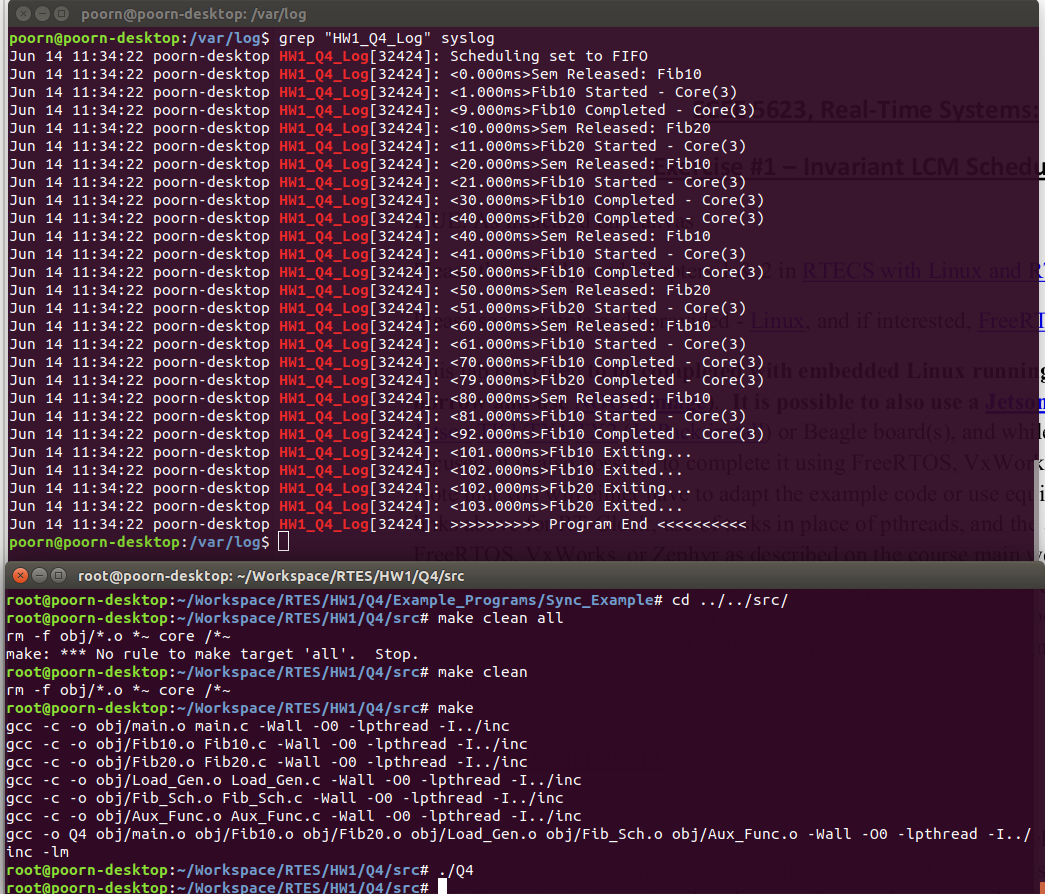
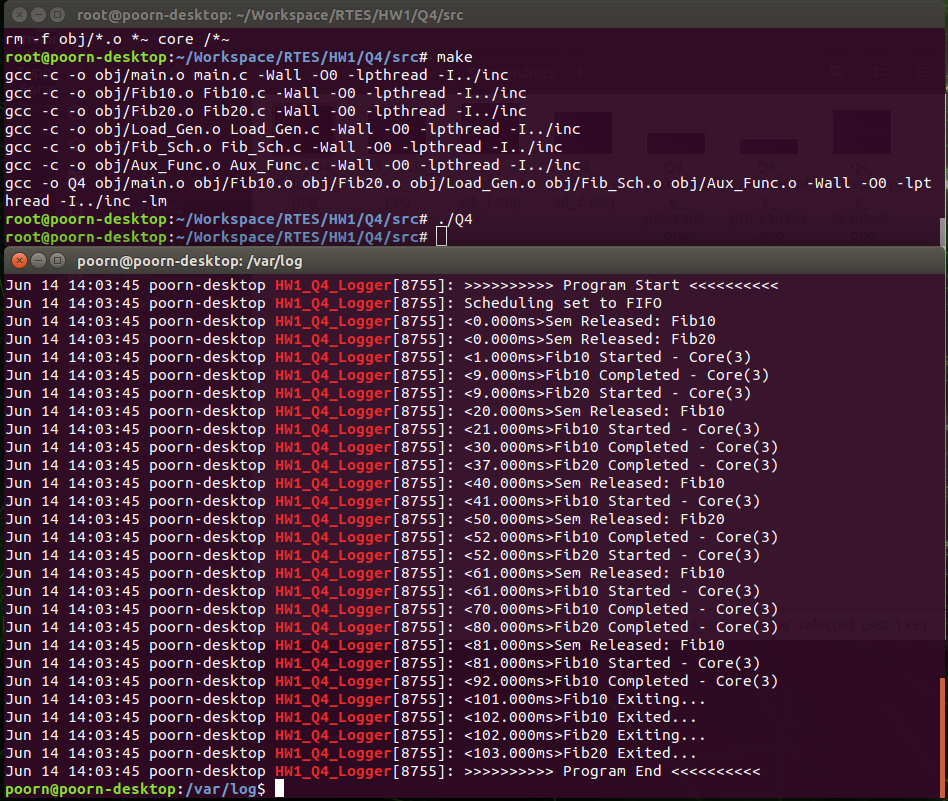
minor updates

diff --git a/HW1/Q4/src/Fib_Sch.c b/HW1/Q4/src/Fib_Sch.c
@@ -14,34 +14,41 @@ extern uint8_t Terminate_Flag;
 // Function to implement scheduling thread
 void *Fib_Scheduler(void *threadp)
 {
-	uint8_t i, j;
+	uint8_t j;
 	// How many LCM periods - to run for
 	for(j = 0; j < No_of_LCM; j ++)
 	{
 		// Implementing RM policy with the use of microsleep and semaphores
-		for(i = 0; i < 2; i ++)
-		{
-			// Run Thread Fib10
-			sem_post(&Fib10_Sem);
-			syslog (LOG_INFO, "<%.3fms>Sem Released: Fib10", Time_Stamp());
-			usleep(10000);
-
-			// Run Thread Fib20
-			sem_post(&Fib20_Sem);
-			syslog (LOG_INFO, "<%.3fms>Sem Released: Fib20", Time_Stamp());
-			usleep(10000);
-
-			// Interrupt Thread Fib20 
-			sem_post(&Fib10_Sem);
-			syslog (LOG_INFO, "<%.3fms>Sem Released: Fib10", Time_Stamp());
-			usleep(20000);
-		}
-
-		// Final Fib10 run
+		// Requestig both at the same time, Critical Instant
 		sem_post(&Fib10_Sem);
 		syslog (LOG_INFO, "<%.3fms>Sem Released: Fib10", Time_Stamp());
+		sem_post(&Fib20_Sem);
+		syslog (LOG_INFO, "<%.3fms>Sem Released: Fib20", Time_Stamp());
+		usleep(20000);
+		
+		// Period of Fib10 has arrived, request again
+		sem_post(&Fib10_Sem);
+		syslog (LOG_INFO, "<%.3fms>Sem Released: Fib10", Time_Stamp());
+		usleep(20000);
 
-		// Idle for last 10ms
+		// Fib20 has just completed processing. Period of Fib10 has reached, request again. 
+		sem_post(&Fib10_Sem);
+		syslog (LOG_INFO, "<%.3fms>Sem Released: Fib10", Time_Stamp());
+		usleep(10000);
+
+		// Period of Fib20 has arrived, request again
+		sem_post(&Fib20_Sem);
+		syslog (LOG_INFO, "<%.3fms>Sem Released: Fib20", Time_Stamp());
+		usleep(10000);
+
+		// Periodic request for Fib10
+		sem_post(&Fib10_Sem);
+		syslog (LOG_INFO, "<%.3fms>Sem Released: Fib10", Time_Stamp());
+		usleep(20000);
+
+		// Final request for Fib10. Fib20 has been completed 2 times now. 
+		sem_post(&Fib10_Sem);
+		syslog (LOG_INFO, "<%.3fms>Sem Released: Fib10", Time_Stamp());
 		usleep(20000);
 	}
 

diff --git a/HW1/Q4/src/main.c b/HW1/Q4/src/main.c
@@ -50,12 +50,14 @@ cpu_set_t CPU_Core;
 
 
 int main (int argc, char *argv[])
-{
+{	
 	// Record program start time, to provide relative time throughout the execution
 	clock_gettime(CLOCK_REALTIME, &start_time);
 
 	// Setup logger
-	Set_Logger("HW1_Q4_Log", LOG_DEBUG);
+	Set_Logger("HW1_Q4_Logger", LOG_DEBUG);
+
+	syslog (LOG_INFO, ">>>>>>>>>> Program Start <<<<<<<<<<");
 
 	// Setup the system for realtime execution, use CPU3
 	if(Realtime_Setup(3) != 0)	exit(-1);
